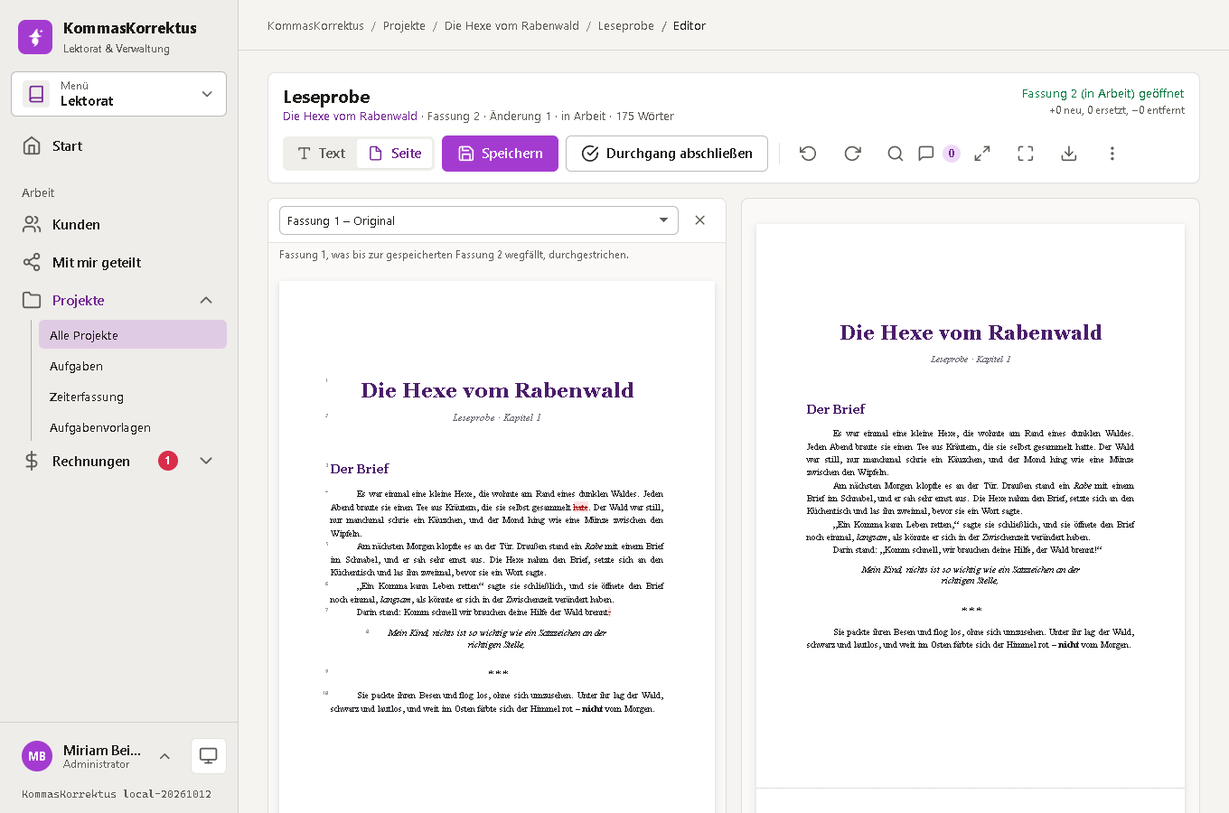
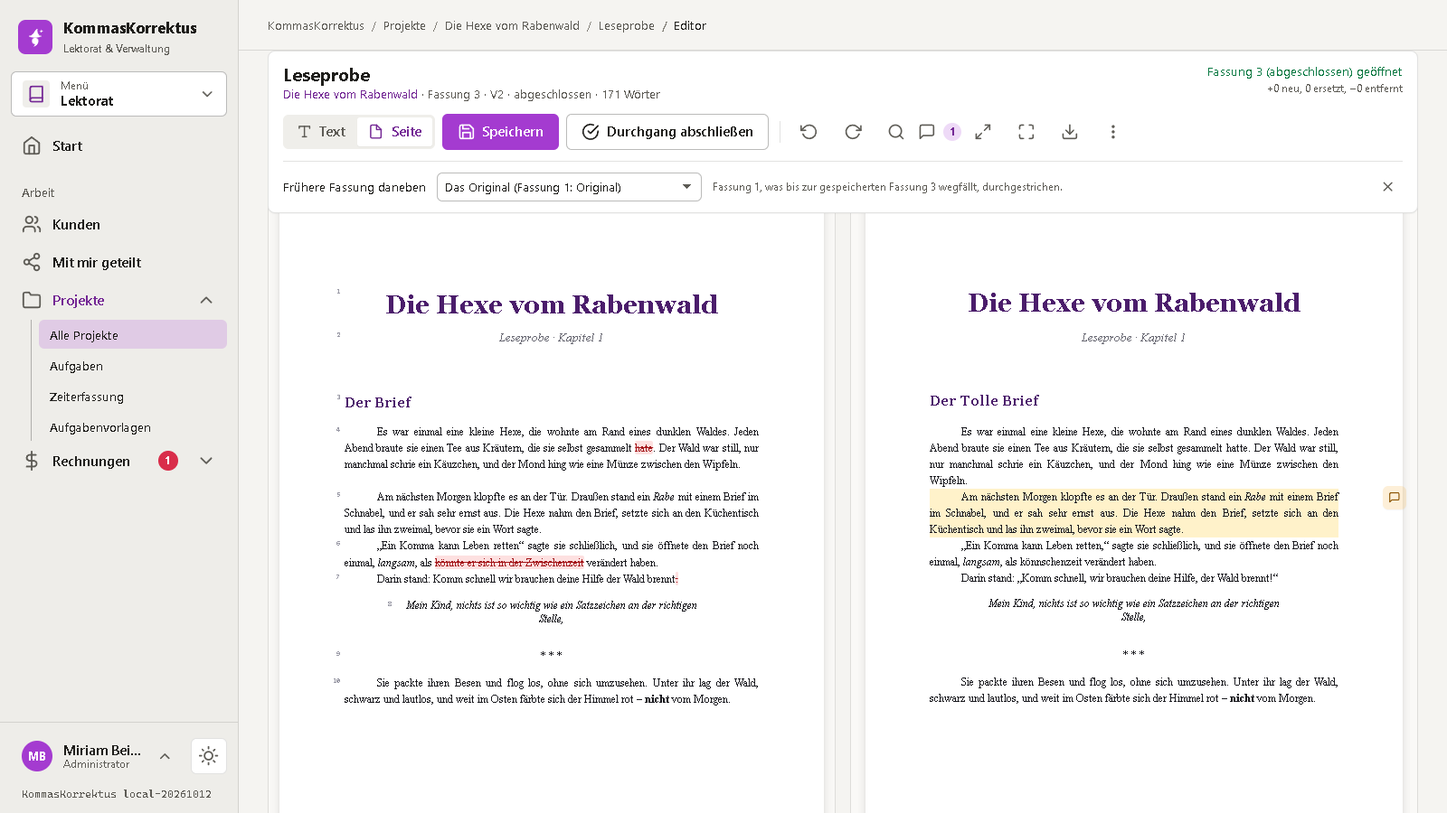
Earlier version: the choice is a rule that is kept, and the bar sticks below the top bar
- The version the editor stands beside the text is chosen by a rule that stays right as the work goes on ("die Fassung davor",
  "Anfang dieser Runde", "das Original") or by number, and the choice is kept with the account.
- The bar of the editor sticks below the bar with the breadcrumb (it used to hide under it), and what sticks beside the text
  (the comments, the PDF) stays below the bar whatever its height is.
- Screenshot of the lined-up earlier version retaken.

diff --git a/src/KommasKorrektus/wwwroot/css/app.css b/src/KommasKorrektus/wwwroot/css/app.css
@@ -70,7 +70,7 @@ del { background: var(--kk-del-bg); color: var(--kk-del-text); text-decoration: 
 }
 
 /* ---- The editor ---- */
-.kk-editor__bar { display: flex; flex-direction: column; gap: var(--mat-space-3); padding: var(--mat-space-3) var(--mat-space-4); position: sticky; top: 0; z-index: 5; }
+.kk-editor__bar { display: flex; flex-direction: column; gap: var(--mat-space-3); padding: var(--mat-space-3) var(--mat-space-4); position: sticky; top: var(--mat-topbar-h, 3.5rem); z-index: 5; }
 .kk-editor__head { display: flex; flex-wrap: wrap; align-items: flex-start; justify-content: space-between; gap: var(--mat-space-1) var(--mat-space-5); }
 .kk-editor__sep { width: 1px; height: 1.5rem; background: var(--mat-border); margin-inline: var(--mat-space-1); }
 .kk-editor__phone { display: none; }
@@ -112,9 +112,10 @@ del { background: var(--kk-del-bg); color: var(--kk-del-text); text-decoration: 
 .kk-refbar__label { font-size: var(--mat-fs-sm); font-weight: 600; }
 .kk-refbar .mat-select { width: auto; min-width: 14rem; max-width: 100%; }
 .kk-refbar__close { margin-left: auto; }
-.kk-editor__original { position: sticky; top: 6rem; height: calc(100vh - 8rem); border: 1px solid var(--mat-border); border-radius: var(--mat-radius-lg); overflow: hidden; background: var(--mat-surface); }
+/* what sticks beside the text stays below the bar: its height is told by the script (--kk-bar-h) */
+.kk-editor__original { position: sticky; top: calc(var(--mat-topbar-h) + var(--kk-bar-h, 8rem) + var(--mat-space-4)); height: calc(100vh - var(--mat-topbar-h) - var(--kk-bar-h, 8rem) - 2 * var(--mat-space-4)); border: 1px solid var(--mat-border); border-radius: var(--mat-radius-lg); overflow: hidden; background: var(--mat-surface); }
 .kk-editor__original iframe { width: 100%; height: 100%; border: 0; }
-.kk-editor__side { position: sticky; top: 6rem; max-height: calc(100vh - 8rem); overflow-y: auto; }
+.kk-editor__side { position: sticky; top: calc(var(--mat-topbar-h) + var(--kk-bar-h, 8rem) + var(--mat-space-4)); max-height: calc(100vh - var(--mat-topbar-h) - var(--kk-bar-h, 8rem) - 2 * var(--mat-space-4)); overflow-y: auto; }
 .kk-editor__side h2 { font-size: var(--mat-fs-lg); margin: 0 0 var(--mat-space-2); }
 .kk-editor__side section { margin-bottom: var(--mat-space-5); }
 .kk-p { position: relative; display: flex; padding-left: 3rem; content-visibility: auto; contain-intrinsic-size: auto 3rem; }
@@ -317,7 +318,7 @@ html.kk-focus .mat-nav, html.kk-focus .mat-topbar, html.kk-focus .mat-footer, ht
 html.kk-focus .mat-page { padding-top: var(--mat-space-3); padding-bottom: var(--mat-space-4); gap: var(--mat-space-3); }
 html.kk-focus .kk-editor__body { margin-top: var(--mat-space-3); }
 /* maximized, the bar of the editor is one row: the name and the state on the left, the buttons beside them */
-html.kk-focus .kk-editor__bar { padding: var(--mat-space-2) var(--mat-space-3); gap: var(--mat-space-2); }
+html.kk-focus .kk-editor__bar { top: 0; padding: var(--mat-space-2) var(--mat-space-3); gap: var(--mat-space-2); }
 @media (min-width: 1100px) { html.kk-focus .kk-editor__bar { display: grid; grid-template-columns: auto minmax(0, 1fr); align-items: center; column-gap: var(--mat-space-5); } html.kk-focus .kk-editor__actions { justify-content: flex-end; flex-wrap: nowrap; } html.kk-focus #editor-close > span { position: absolute; width: 1px; height: 1px; overflow: hidden; clip: rect(0 0 0 0); white-space: nowrap; } html.kk-focus .kk-find { grid-column: 1 / -1; } }
 html.kk-focus .kk-editor__head { flex: 0 1 auto; flex-wrap: nowrap; align-items: center; gap: var(--mat-space-1) var(--mat-space-4); }
 html.kk-focus .kk-editor__title { flex: 0 1 14rem; }
@@ -327,7 +328,7 @@ html.kk-focus .kk-editor__state small { display: none; }
 html.kk-focus .kk-editor__title p { display: none; }
 
 html.kk-focus .kk-editor__paper { max-width: 72rem; }
-html.kk-focus .kk-editor__side, html.kk-focus .kk-editor__original { top: 5.5rem; max-height: calc(100vh - 7rem); }
+html.kk-focus .kk-editor__side, html.kk-focus .kk-editor__original { top: calc(var(--kk-bar-h, 5rem) + var(--mat-space-4)); max-height: calc(100vh - var(--kk-bar-h, 5rem) - 2 * var(--mat-space-4)); }
 
 /* ---- Fields that line up by their controls ----
    A field is a label, a control, a hint and the space for an error. In a form grid every field takes the same four rows (a subgrid), so the

diff --git a/src/KommasKorrektus/wwwroot/js/editor.js b/src/KommasKorrektus/wwwroot/js/editor.js
@@ -1062,6 +1062,12 @@
   }
 
   // ================================================================================================ the bar
+  // The bar sticks to the top and its height changes (the search, the earlier version): what sticks below it needs to know how high it is.
+  var barElement = host.querySelector('.kk-editor__bar');
+  if (barElement && typeof ResizeObserver !== 'undefined') {
+    new ResizeObserver(function () { document.documentElement.style.setProperty('--kk-bar-h', barElement.offsetHeight + 'px'); }).observe(barElement);
+  }
+
   function wire(id, handler) { var b = document.getElementById(id); if (b) { b.addEventListener('click', handler); } }
   function closePass() {
     window.MatUi.prompt('Name des Durchgangs (zum Beispiel „Erster Durchgang“). Danach beginnt die nächste Änderung eine neue Fassung.', { title: 'Durchgang abschließen', ok: 'Abschließen' }).then(function (label) {
@@ -1132,10 +1138,12 @@
   var refShown = false;
   var refLink = null;
   var refTimer = null;
-  var refFrom = 0;
+  var refFrom = cleanChoice(data.options && data.options.referenceFrom);   // "previous", "round", "original" or the number of a version (kept with the account)
   var refTicket = 0;
   var alignFrame = 0;
   var alignSheet = null;     // the room on the side of the text: rules of a constructable stylesheet (the policy of the site forbids style attributes in markup)
+
+  function cleanChoice(value) { return value === 'round' || value === 'original' || (value && /^\d{1,6}$/.test(String(value))) ? String(value) : 'previous'; }
 
   function zoomOf(element) { var z = parseFloat(element.style.zoom); return z > 0 ? z : 1; }
 
@@ -1227,18 +1235,27 @@
     if (!refShown) { return; }
     var ticket = refTicket + 1;
     refTicket = ticket;
-    fetch(location.pathname + '?id=' + data.documentId + '&handler=Reference&from=' + refFrom, { credentials: 'same-origin' })
+    fetch(location.pathname + '?id=' + data.documentId + '&handler=Reference&from=' + encodeURIComponent(refFrom), { credentials: 'same-origin' })
       .then(function (response) { if (!response.ok) { throw new Error('HTTP ' + response.status); } return response.json(); })
       .then(function (r) {
         if (ticket !== refTicket) { return; }
         refSelect.textContent = '';
-        r.options.forEach(function (o) {
-          var option = el('option');
-          option.value = String(o.no);
-          option.textContent = o.text;
-          if (o.no === r.from) { option.selected = true; }
-          refSelect.appendChild(option);
-        });
+        var fill = function (parent, list) {
+          list.forEach(function (o) {
+            var option = el('option');
+            option.value = o.value;
+            option.textContent = o.text;
+            if (o.value === r.selected) { option.selected = true; }
+            parent.appendChild(option);
+          });
+        };
+        fill(refSelect, r.rules);
+        if (r.versions.length > 0) {
+          var group = el('optgroup');
+          group.label = 'Eine bestimmte Fassung';
+          fill(group, r.versions);
+          refSelect.appendChild(group);
+        }
         clearAlignment();
         refBody.textContent = '';
         if (r.empty) {
@@ -1248,7 +1265,6 @@
           refBody.appendChild(none);
           return;
         }
-        refFrom = r.from;
         if (refLink) { refLink.remove(); }
         refLink = el('link');
         refLink.rel = 'stylesheet';
@@ -1295,7 +1311,11 @@
   }
 
   if (refPane) {
-    refSelect.addEventListener('change', function () { refFrom = parseInt(refSelect.value, 10) || 0; refLoad(); });
+    refSelect.addEventListener('change', function () {
+      refFrom = cleanChoice(refSelect.value);
+      post('View', { referenceFrom: refFrom }).catch(function () { /* it is only not remembered */ });
+      refLoad();
+    });
     document.getElementById('reference-close').addEventListener('click', function () { toggleReference(false); });
     if (typeof ResizeObserver !== 'undefined') {
       // Whatever changes the height of one column (a word that wraps, the zoom of the page, the window) is lined up again.

diff --git a/src/KommasKorrektus/Pages/Documents/Editor.cshtml.cs b/src/KommasKorrektus/Pages/Documents/Editor.cshtml.cs
@@ -25,7 +25,7 @@ public sealed class EditorModel(KkDbContext db, DocumentService documents, Layou
 
     public sealed record LayoutRequest(string[] Paragraphs);
 
-    public sealed record ViewRequest(string? View, bool? Reference, bool? Side);
+    public sealed record ViewRequest(string? View, bool? Reference, bool? Side, string? ReferenceFrom);
 
     public sealed record StyleRequest(string? Category, string? Term, string? Decision, string? Note);
 
@@ -79,7 +79,7 @@ public sealed class EditorModel(KkDbContext db, DocumentService documents, Layou
         {
             documentId = document.Id,
             view = views.Editor,
-            options = new { reference = views.Options.Reference, side = views.Options.Side },
+            options = new { reference = views.Options.Reference, side = views.Options.Side, referenceFrom = ViewPreferences.CleanReferenceFrom(views.Options.ReferenceFrom) },
             kind = document.Kind.ToString(),
             versionNo = version.VersionNo,
             versionName = VersionTitle,
@@ -188,9 +188,10 @@ public sealed class EditorModel(KkDbContext db, DocumentService documents, Layou
 
     /// <summary>
     /// The earlier version beside the text ("Änderungsmodus"): the changes between <c>from</c> and the saved newest version as one page, of which the editor shows the
-    /// side that has what was taken away (the markup is the one of the comparison). Without a starting version it is the one before the newest.
+    /// side that has what was taken away (the markup is the one of the comparison). <c>from</c> is a rule that stays right as the work goes on ("previous": the version
+    /// before the newest, "round": where this round of the ping pong began, "original") or the number of a version.
     /// </summary>
-    public async Task<IActionResult> OnGetReferenceAsync(int from)
+    public async Task<IActionResult> OnGetReferenceAsync(string? from)
     {
         var document = await db.Document.AsNoTracking().FirstOrDefaultAsync(d => d.Id == Id);
         if (document is null)
@@ -201,26 +202,51 @@ public sealed class EditorModel(KkDbContext db, DocumentService documents, Layou
         var to = document.CurrentVersionNo;
         var rows = await db.DocumentVersion.AsNoTracking().Where(v => v.DocumentId == Id).Select(v => new { v.VersionNo, v.Origin, v.Label }).ToListAsync();
         var names = VersionNames.Of(rows.Select(r => (r.VersionNo, r.Origin, r.Label)));
-        var options = rows.Where(r => r.VersionNo < to).OrderByDescending(r => r.VersionNo).Select(r => new { no = r.VersionNo, text = names[r.VersionNo].Option(r.VersionNo) }).ToList();
+        var roundStart = await documents.RoundStartAsync(document, to, HttpContext.RequestAborted);
+        var choice = ViewPreferences.CleanReferenceFrom(from);
+
+        // a rule that says the same as another one is the other (the beginning of the first round is the original; of a round that has just begun, the version before)
+        var selected = choice == "round" ? (roundStart <= 1 ? "original" : roundStart >= to ? "previous" : "round") : choice;
+
+        // the rules first, then every version
+        var rules = new List<object> { new { value = "previous", text = to > 1 ? $"Die Fassung davor (Fassung {to - 1}: {names[to - 1].Title})" : "Die Fassung davor" } };
+        if (roundStart > 1 && roundStart < to)
+        {
+            rules.Add(new { value = "round", text = $"Anfang dieser Runde (Fassung {roundStart}: {names[roundStart].Title})" });
+        }
+
+        if (to > 2 || selected == "original")
+        {
+            rules.Add(new { value = "original", text = $"Das Original (Fassung 1: {names[1].Title})" });
+        }
+
+        var versions = rows.Where(r => r.VersionNo < to).OrderByDescending(r => r.VersionNo).Select(r => new { value = r.VersionNo.ToString(), text = names[r.VersionNo].Option(r.VersionNo) }).ToList();
         if (to <= 1)
         {
-            return new JsonResult(new { ok = true, empty = true, to, options });
+            return new JsonResult(new { ok = true, empty = true, to, rules, versions, selected });
         }
 
-        if (from <= 0 || from >= to)
+        var fromNo = choice switch
         {
-            from = to - 1;
+            "round" => roundStart,
+            "original" => 1,
+            "previous" => to - 1,
+            _ => int.TryParse(choice, out var number) ? number : to - 1,
+        };
+        if (fromNo < 1 || fromNo >= to)
+        {
+            fromNo = to - 1;
         }
 
-        var page = await layouts.ForChangesAsync(document, from, to, HttpContext.RequestAborted);
-        return new JsonResult(new { ok = true, empty = false, from, to, options, html = page.Html, link = page.CssUrl, pageClass = page.Layout.PageClass, formatted = page.Formatted });
+        var page = await layouts.ForChangesAsync(document, fromNo, to, HttpContext.RequestAborted);
+        return new JsonResult(new { ok = true, empty = false, from = fromNo, to, rules, versions, selected, html = page.Html, link = page.CssUrl, pageClass = page.Layout.PageClass, formatted = page.Formatted });
     }
 
     /// <summary>The person changed the view of the text: it is kept with the account, so that the next browser opens the same way.</summary>
     public async Task<IActionResult> OnPostViewAsync([FromBody] ViewRequest request)
     {
         var saved = await ViewPreferences.SetEditorAsync(db, current.UserId, request.View, HttpContext.RequestAborted);
-        saved |= await ViewPreferences.SetOptionsAsync(db, current.UserId, request.Reference, request.Side, HttpContext.RequestAborted);
+        saved |= await ViewPreferences.SetOptionsAsync(db, current.UserId, request.Reference, request.Side, request.ReferenceFrom, HttpContext.RequestAborted);
         return saved ? new JsonResult(new { ok = true }) : BadRequest();
     }
 

diff --git a/tests/KommasKorrektus.Tests/Integration/ViewPreferenceTests.cs b/tests/KommasKorrektus.Tests/Integration/ViewPreferenceTests.cs
@@ -1,5 +1,6 @@
 using System.Net;
 using System.Net.Http.Json;
+using System.Text.Json;
 using System.Text.RegularExpressions;
 using KommasKorrektus.Data;
 using KommasKorrektus.Data.Entities;
@@ -105,5 +106,41 @@ public sealed class ViewPreferenceTests : IClassFixture<AppFixture>
 
         var stored = await _app.WithScopeAsync(sp => sp.GetRequiredService<KkDbContext>().User.AsNoTracking().Where(u => u.Email == "vergleich-eins@example.test").Select(u => u.CompareView).SingleAsync());
         Assert.Equal("inline", stored);
+    }
+
+    [DatabaseFact]
+    public async Task The_earlier_version_beside_the_text_is_chosen_by_a_rule_that_is_kept()
+    {
+        await _app.EnsureAdminAsync();
+        var (_, _, document) = await _app.CreateCustomerWithDocumentAsync("Regel");
+        await _app.CreateUserAsync("regel-eins@example.test", "Eins-Passwort-2026", UserRole.User);
+        using var client = await SignedInAsync("regel-eins@example.test", "Eins-Passwort-2026");
+
+        async Task<JsonElement> ReferenceAsync(string? from)
+            => (await client.GetFromJsonAsync<JsonElement>($"/Documents/Editor?id={document.Id}&handler=Reference" + (from is null ? "" : "&from=" + from))).Clone();
+
+        // without a choice: the version before (the document has two versions)
+        var previous = await ReferenceAsync(null);
+        Assert.Equal(1, previous.GetProperty("from").GetInt32());
+        Assert.Equal(2, previous.GetProperty("to").GetInt32());
+        Assert.Equal("previous", previous.GetProperty("selected").GetString());
+        Assert.Contains("kk-lp", previous.GetProperty("html").GetString());
+        Assert.Equal("previous", previous.GetProperty("rules")[0].GetProperty("value").GetString());
+        Assert.Equal("1", previous.GetProperty("versions")[0].GetProperty("value").GetString());
+
+        // the rules, a number, and nonsense (which is the version before)
+        Assert.Equal("original", (await ReferenceAsync("original")).GetProperty("selected").GetString());
+        Assert.Equal(1, (await ReferenceAsync("1")).GetProperty("from").GetInt32());
+        // with one round only, its beginning is the original
+        Assert.Equal("original", (await ReferenceAsync("round")).GetProperty("selected").GetString());
+        Assert.Equal(1, (await ReferenceAsync("9999")).GetProperty("from").GetInt32());
+        Assert.Equal("previous", (await ReferenceAsync("'; drop table")).GetProperty("selected").GetString());
+
+        // the choice is kept with the account
+        var token = await AppFixture.TokenAsync(client, $"/Documents/Editor?id={document.Id}");
+        using var request = new HttpRequestMessage(HttpMethod.Post, $"/Documents/Editor?id={document.Id}&handler=View") { Content = JsonContent.Create(new { referenceFrom = "round", view = (string?)null, reference = (bool?)null, side = (bool?)null }) };
+        request.Headers.Add("RequestVerificationToken", token);
+        Assert.Equal(HttpStatusCode.OK, (await client.SendAsync(request)).StatusCode);
+        Assert.Contains("\"referenceFrom\":\"round\"", await client.GetStringAsync($"/Documents/Editor?id={document.Id}"));
     }
 }

diff --git a/src/KommasKorrektus/Services/ViewPreferences.cs b/src/KommasKorrektus/Services/ViewPreferences.cs
@@ -19,8 +19,15 @@ public static class ViewPreferences
 
     public const string DefaultCompareView = "pages";
 
-    /// <summary>What the editor has open: the earlier version beside the text, the side panel with the comments and the style sheet.</summary>
-    public sealed record EditorOptions(bool Reference = false, bool Side = false);
+    /// <summary>
+    /// What the editor has open: the earlier version beside the text (and which: "previous" the version before, "round" the beginning of the round, "original", or a number),
+    /// the side panel with the comments and the style sheet.
+    /// </summary>
+    public sealed record EditorOptions(bool Reference = false, bool Side = false, string ReferenceFrom = "previous");
+
+    /// <summary>"previous", "round", "original" or the number of a version; anything else is "previous".</summary>
+    public static string CleanReferenceFrom(string? value)
+        => value is "previous" or "round" or "original" || (value is not null && value.Length is > 0 and < 7 && value.All(char.IsAsciiDigit)) ? value : "previous";
 
     public static async Task<(string Editor, string Compare, EditorOptions Options)> GetAsync(KkDbContext db, long? userId, CancellationToken ct = default)
     {
@@ -69,15 +76,15 @@ public static class ViewPreferences
     }
 
     /// <summary>Remembers what the editor has open; what is null stays as it was.</summary>
-    public static async Task<bool> SetOptionsAsync(KkDbContext db, long? userId, bool? reference, bool? side, CancellationToken ct = default)
+    public static async Task<bool> SetOptionsAsync(KkDbContext db, long? userId, bool? reference, bool? side, string? referenceFrom = null, CancellationToken ct = default)
     {
-        if (userId is null || (reference is null && side is null))
+        if (userId is null || (reference is null && side is null && referenceFrom is null))
         {
             return false;
         }
 
         var current = ParseOptions(await db.User.AsNoTracking().Where(u => u.Id == userId).Select(u => u.EditorOptions).FirstOrDefaultAsync(ct));
-        var next = current with { Reference = reference ?? current.Reference, Side = side ?? current.Side };
+        var next = current with { Reference = reference ?? current.Reference, Side = side ?? current.Side, ReferenceFrom = referenceFrom is null ? CleanReferenceFrom(current.ReferenceFrom) : CleanReferenceFrom(referenceFrom) };
         var json = JsonSerializer.Serialize(next, JsonOptions);
         await db.User.Where(u => u.Id == userId).ExecuteUpdateAsync(s => s.SetProperty(u => u.EditorOptions, json), ct);
         return true;

diff --git a/docs/FEATURES.md b/docs/FEATURES.md
@@ -7,7 +7,7 @@ Everything KommasKorrektus does, area by area. Names in *italics* are the labels
 | | |
 |---|---|
 | **Import** | DOCX (paragraphs, also in tables), PDF (text PDFs; paragraphs rebuilt from line spacing and font size, hyphenation at line ends joined), plain text and Markdown (UTF-8 with or without mark, Windows-1252 as a fallback). Up to 150 MB. Notes about what the import had to guess are kept with the document |
-| **Editor** | Two views, one text: **Text** and **Seite** (see below). In the text view: one text field per paragraph, numbered; a paragraph that changed has a dot. Enter splits, Backspace at the start joins, line breaks inside a paragraph are kept. Undo / redo, find and replace (also across paragraphs), word and character count, **Durchgang abschließen** to close a version (and name it), **Export** (Word with changes or clean, PDF, text) straight from the editor: what is typed is saved first. The search is a bar under the buttons (`Enter` next hit, `Shift+Enter` the one before, `Esc` closes it), less used things sit in the menu behind the three dots, **maximize** (`Alt+V`, `Esc` ends it) makes the editor big inside the browser window: the menu, the breadcrumb and the footer are gone and the bar shrinks to one row (remembered); **full screen** (`Alt+B`) is the browser's own, the whole screen, and maximizes too, and on a phone the buttons keep to two rows. **Frühere Fassung daneben** (*Mehr*-menu, `Alt+R`): the page of an earlier version (chosen in the bar, the one before by default) next to the text with what was taken away struck through, drawn again after every save. It is read like the diff of a pull request: the two pages are **lined up paragraph by paragraph** (a paragraph that was taken away or is new leaves room on the other side) and scroll as one, also while you write. It needs the page view (the text view steps it aside), and whether it is open is kept with your account. Shortcuts (the list is in the editor, `Alt+H`): `Ctrl+S` save, `Alt+A` close the pass, `Alt+K` comment on the marked words or the paragraph, `Alt+↓` / `Alt+↑` next / previous open comment, `Alt+L` comments and style sheet, `Alt+W` text / page, `Alt+X` export, `Alt+R` earlier version beside the text, `Alt+S` marked word into the style sheet, `Alt+V` maximize, `Alt+B` full screen, `Ctrl+H` find and replace, `F3` / `Shift+F3` next / previous hit, `Ctrl+Z`, `Ctrl+Y`. They are `Alt` + a letter on purpose: `Ctrl+Alt` is AltGr on a German keyboard |
+| **Editor** | Two views, one text: **Text** and **Seite** (see below). In the text view: one text field per paragraph, numbered; a paragraph that changed has a dot. Enter splits, Backspace at the start joins, line breaks inside a paragraph are kept. Undo / redo, find and replace (also across paragraphs), word and character count, **Durchgang abschließen** to close a version (and name it), **Export** (Word with changes or clean, PDF, text) straight from the editor: what is typed is saved first. The search is a bar under the buttons (`Enter` next hit, `Shift+Enter` the one before, `Esc` closes it), less used things sit in the menu behind the three dots, **maximize** (`Alt+V`, `Esc` ends it) makes the editor big inside the browser window: the menu, the breadcrumb and the footer are gone and the bar shrinks to one row (remembered); **full screen** (`Alt+B`) is the browser's own, the whole screen, and maximizes too, and on a phone the buttons keep to two rows. **Frühere Fassung daneben** (*Mehr*-menu, `Alt+R`): the page of an earlier version (chosen in the bar: a rule that stays right as the work goes on, *Die Fassung davor*, *Anfang dieser Runde* or *Das Original*, or one particular version; the choice is kept with your account) next to the text with what was taken away struck through, drawn again after every save. It is read like the diff of a pull request: the two pages are **lined up paragraph by paragraph** (a paragraph that was taken away or is new leaves room on the other side) and scroll as one, also while you write. It needs the page view (the text view steps it aside), and whether it is open is kept with your account. Shortcuts (the list is in the editor, `Alt+H`): `Ctrl+S` save, `Alt+A` close the pass, `Alt+K` comment on the marked words or the paragraph, `Alt+↓` / `Alt+↑` next / previous open comment, `Alt+L` comments and style sheet, `Alt+W` text / page, `Alt+X` export, `Alt+R` earlier version beside the text, `Alt+S` marked word into the style sheet, `Alt+V` maximize, `Alt+B` full screen, `Ctrl+H` find and replace, `F3` / `Shift+F3` next / previous hit, `Ctrl+Z`, `Ctrl+Y`. They are `Alt` + a letter on purpose: `Ctrl+Alt` is AltGr on a German keyboard |
 | **Page view** | The page is the **standard** (for the editor, a version, the comparison and the pages of authors and clients; the plain text is one click away). *Seite* shows the text on a page in the layout of the uploaded Word file: styles (headings, quotes, alignment, indents, line spacing), the formatting of words (bold, italic, colour, size, font), numbered and bulleted lists, tables (widths, borders, shading, merged cells), pictures, footnotes and endnotes, links. It is **written in directly**: the whole page is one editable field, so selecting across paragraphs, cut, copy, paste, spelling and the browser's own undo work as in any editor. Only the text changes: formatting commands, dropping text and deleting across table cells or over a picture are refused (the export could not carry them), and the original's formatting stays and comes back in the export (a word you insert takes the formatting of the word before it, as in the export). A paragraph made with Enter looks as the export will make it. A faint line marks where a page of the original would end. A paragraph with an open comment has a small bubble in the margin of the page: a click opens the comments at that one. The view you used last is remembered **with your account** (not the browser), for the editor and for a version, and so is what the editor has open (the earlier version beside the text, the comments), so another browser or device opens the same way; a text that cannot be drawn on a page falls back to the text view. A PDF or text file has no layout to keep: *Seite* shows a plain page, and a PDF can be shown next to the text (eye icon). Not shown: headers and footers, text boxes, columns, page borders, Word's own comments |
 | **Saving** | A version is a **pass over the text**, not a click: `Ctrl+S`, the *Speichern* button and the **autosave** all write into the version being worked on (*in Arbeit*), so saving ten times leaves one version. The autosave runs in the text view and in the page view: 3 seconds after the last keystroke (adjustable under *Verwaltung → Firma*, 0 = off), at the latest every 15 seconds while somebody types without a pause, when the tab is left or closed, and again after a failed attempt. It has a **threshold**: it waits until 10 characters differ from the saved text (adjustable, 0 = every change; a smaller change is saved after a minute anyway), and it never takes a big part of the text away on its own (more than 150 characters and a third of the text: that waits for `Ctrl+S`, leaving the page always saves); the bar says *Automatisch gespeichert um …*. *Durchgang abschließen* closes it (with an optional name such as "Erster Durchgang", *abgeschlossen*); the next change then begins the next version. A closed version is never touched again. No change, no new version |
 | **Customer file** | The ping pong between editor and customer: a file the customer sends back (*Datei vom Kunden* on the document page) is **the next version** of the same document: its text is the version, the file is kept with it (and can be downloaded again). What the customer changed is the comparison of the last two versions, and any two versions can be compared. A file starts a new **round**: the page and the Word export of everything from then on use the formatting of that file; the pass of the editor that was open ends with it. The export without a starting version gives the changes of this round (everything since the customer's file) |
